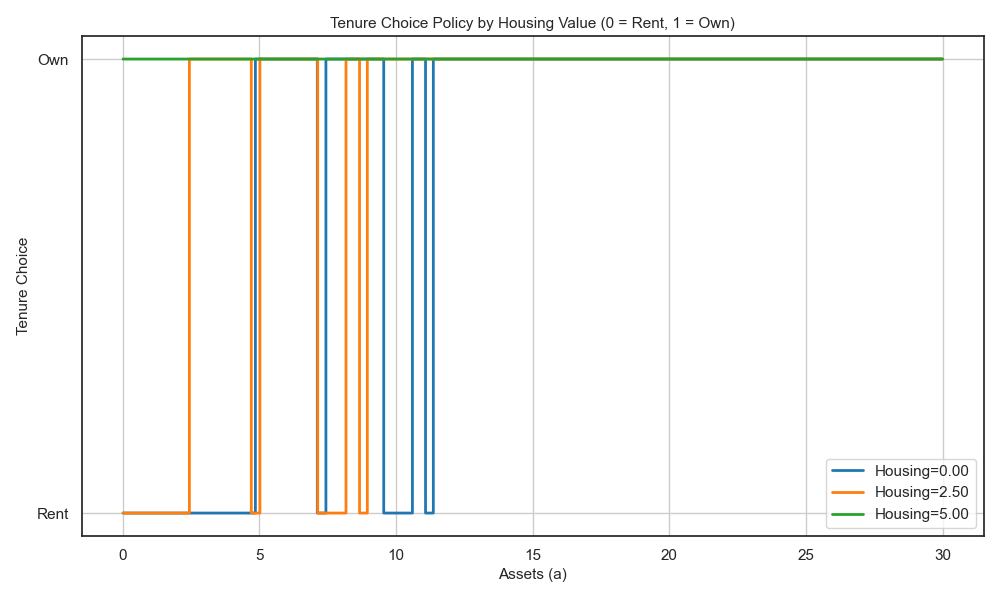
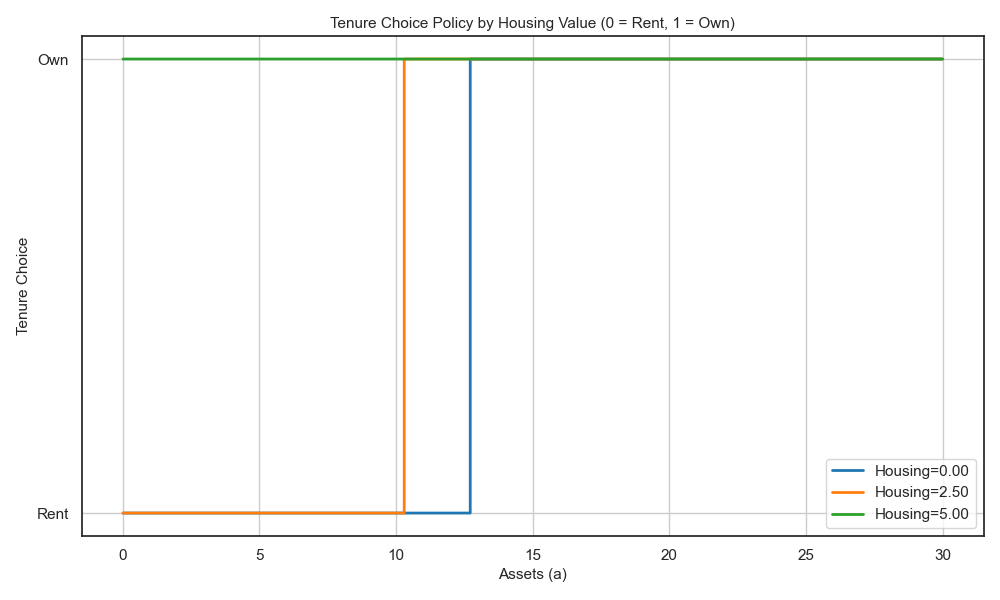
runner with saving

Changed region(s): [[0.186, 0.09, 0.465, 0.87], [0.465, 0.12, 0.496, 0.84]]

diff --git a/src/dc_smm/models/housing_renting/horses_common.py b/src/dc_smm/models/housing_renting/horses_common.py
@@ -408,20 +408,26 @@ def _egm_preprocess_core(e_old, vf_old, c_old, a_old,
     del_vf =vf_next[1:] - vf_next[:-1]
 
     # relative gap |Δa| / |a_{t}|   (robust to a_{t}=0)
-    rel_gap = np.empty_like(diff)
-    for i in range(diff.size):
-        b = base[i]
-        rel_gap[i] = np.abs(diff[i] / b) if b != 0.0 else np.inf
+
+    if n_con_nxt>0:
+        rel_gap = np.empty_like(diff)
+        for i in range(diff.size):
+            b = base[i]
+            rel_gap[i] = np.abs(diff[i] / b) if b != 0.0 else np.inf
     
-    #jumps  = rel_gap > m_bar          # m_bar is now a relative threshold
-    jumps  = diff<0 
-    #del_vf_bool = del_vf<0
-    #jumps = jumps*del_vf_bool
-    j_idx  = np.where(jumps)[0]
-    j_idx   = np.where(jumps)[0]          # jump i  ⇒  segment between i and i+1
-    n_jump  = j_idx.size
-    n_add   = n_con + n_jump * n_con_nxt      # total new nodes
-    n_total = n_old + n_add
+        #jumps  = rel_gap > m_bar          # m_bar is now a relative threshold
+        jumps  = diff<0 
+        #del_vf_bool = del_vf<0
+        #jumps = jumps*del_vf_bool
+        j_idx  = np.where(jumps)[0]
+        j_idx   = np.where(jumps)[0]          # jump i  ⇒  segment between i and i+1
+        n_jump  = j_idx.size
+        n_add   = n_con + n_jump * n_con_nxt      # total new nodes
+        n_total = n_old + n_add
+    else:
+        n_add = n_con
+        n_total = n_old + n_add
+        n_jump = 0
 
     #print(j_idx)
     #print(beta)

diff --git a/examples/housing_renting/circuit_runner_solving.py b/examples/housing_renting/circuit_runner_solving.py
@@ -425,6 +425,9 @@ def main(argv=None):
     
     # Define parameter paths
     param_paths = ["master.methods.upper_envelope"]
+
+    save_root = os.path.join(os.path.dirname(__file__), "solutions/HR_test_v1")
+    os.makedirs(save_root, exist_ok=True)
     
     # Define the solver function inline
     def solver(model_circuit, recorder=None):
@@ -444,7 +447,11 @@ def main(argv=None):
         param_paths=param_paths,
         model_factory=lambda cfg: initialize_housing_model(cfg, n_periods=args.periods
         ),
-        solver=solver,
+        solver=solver,\
+        output_root=save_root,
+        bundle_prefix="HR_test_v1",
+        save_by_default=True,
+        load_if_exists=False,
         metric_fns={"euler_error": metric_function},
         cache=True,
     )
@@ -542,5 +549,5 @@ def main(argv=None):
 if __name__ == "__main__":
     # Fix argument parsing for Cursor debugger
     import sys
-    sys.argv = ["circuit_runner_solving.py", "--periods", "3", "--ue-method", "FUES", "--verbose"]
+    sys.argv = ["circuit_runner_solving.py", "--periods", "3", "--ue-method", "FUES2DEV, CONSAV", "--verbose"]
     debug_results = main() 

diff --git a/src/dc_smm/models/housing_renting/horses_c.py b/src/dc_smm/models/housing_renting/horses_c.py
@@ -336,10 +336,13 @@ def _solve_egm_loop(vlu_cntn, lambda_cntn, model):
                 "H_nxt": H_val
             })
 
-            c_prime = piecewise_gradient_3rd(policy[:, i_h, i_y], w_grid, m_bar=m_bar)
+            if delta<1:
+                c_prime = piecewise_gradient_3rd(policy[:, i_h, i_y], w_grid, m_bar=m_bar)
+            else:
+                c_prime = np.zeros_like(policy[:, i_h, i_y])
             #print(c_prime)
             #print(policy[:, i_h, i_y])
-            lambda_dcsn[:, i_h, i_y] = (uc_today - (1-delta)*c_prime*uc_today) /delta
+            lambda_dcsn[:, i_h, i_y] = (uc_today - (1-delta)*c_prime*uc_today) /delta 
             vlu_dcsn[:, i_h, i_y] = (Q_dcsn[:, i_h, i_y] - (1-delta)*compiled_funcs.u_func(c=policy[:, i_h, i_y], H_nxt=H_val))/delta
 
             #lambda_dcsn[lambda_dcsn<0] = 1e-10

diff --git a/examples/housing_renting/solve_single_model.py b/examples/housing_renting/solve_single_model.py
@@ -249,7 +249,7 @@ if __name__ == "__main__":
     # ------------------------------------------------------------------
     for mtd in METHODS_TO_RUN:
         # 1. solve and get canonical config container
-        mdl, cfg = main(["--periods", "3", "--ue-method", mtd, "--plot"])
+        mdl, cfg = main(["--periods", "4", "--ue-method", mtd, "--plot"])
         solved_models.append(mdl)
 
         # 2. persist ----------------------------------------------------

diff --git a/examples/housing_renting/whisperer.py b/examples/housing_renting/whisperer.py
@@ -593,7 +593,7 @@ def run_time_iteration(model_circuit, n_periods=None, verbose=False,verbose_timi
         period_timings.append(period_data)
         
         # Track times for non-terminal periods only
-        if not is_terminal_period:
+        if period_idx < n_periods - 2:
             total_ue_time += period_ue_time
             total_nonterminal_time += period_time
     
